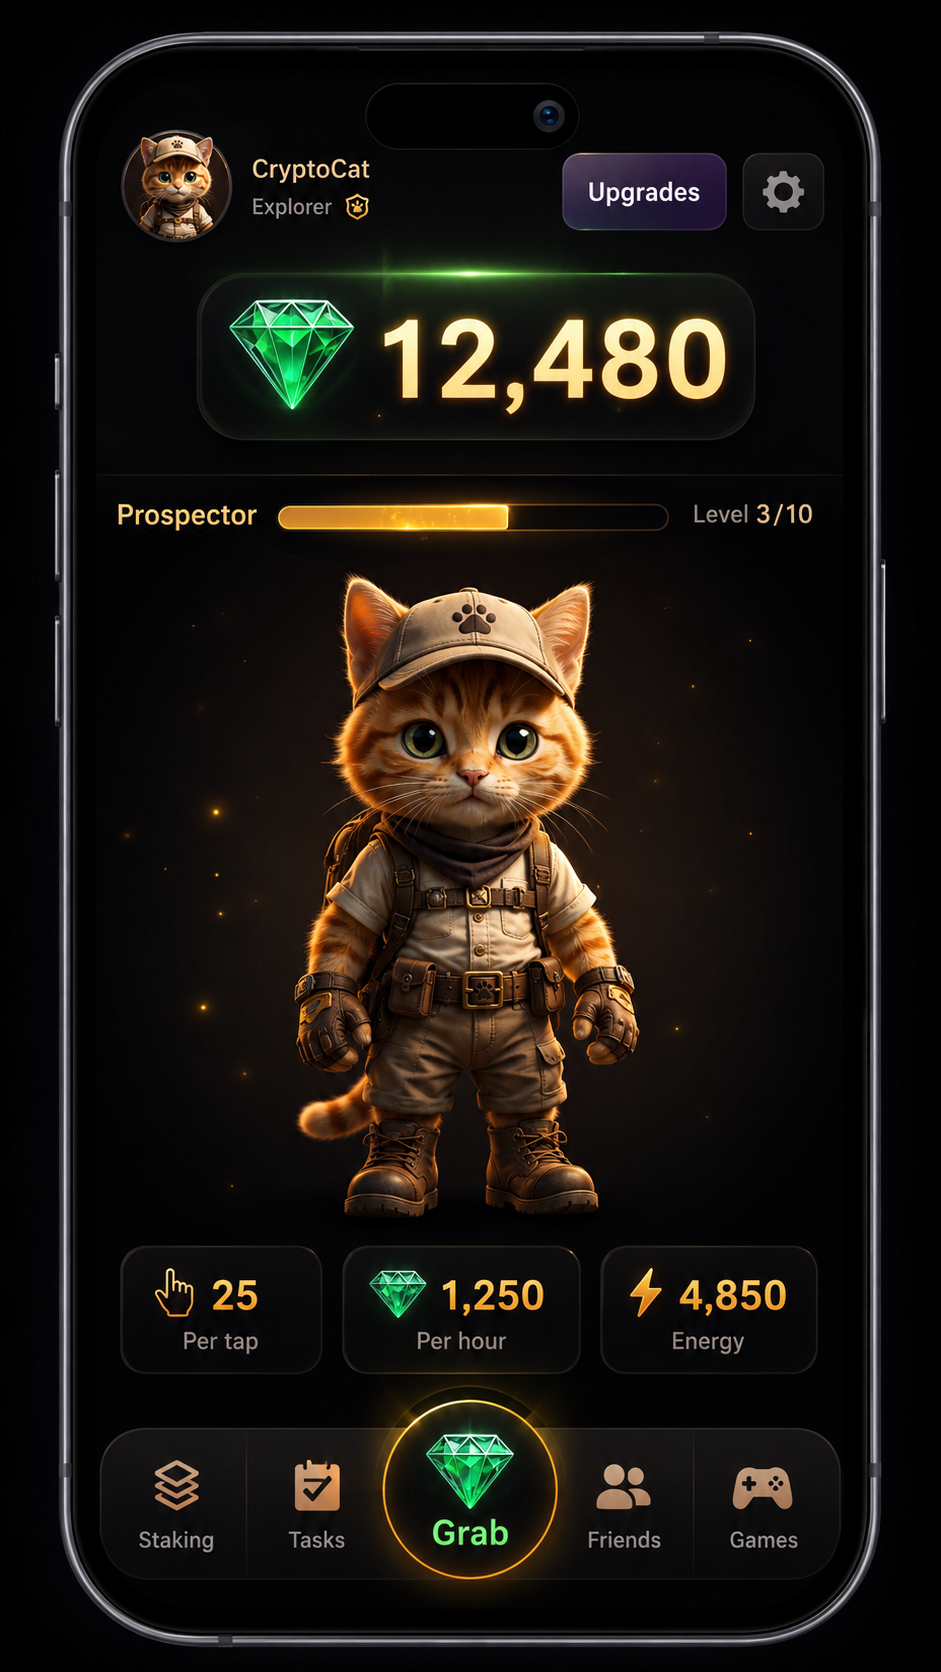
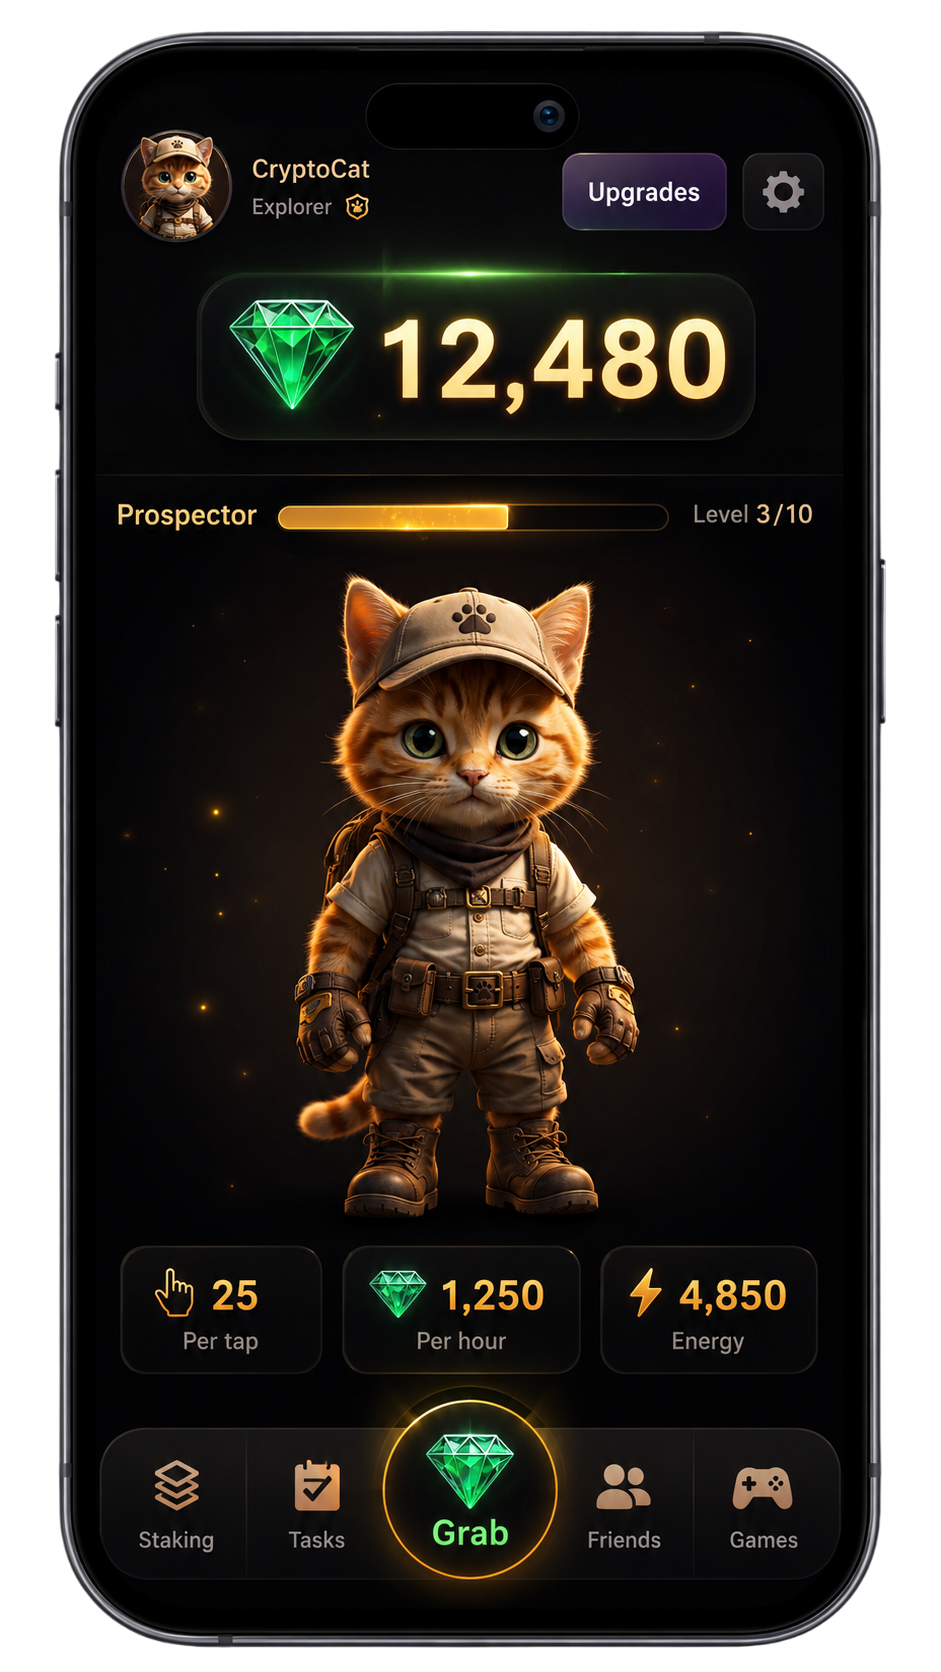
Add transparent phone preview, paw cursor, and download FAB + modal
- Game preview: transparent phone over the cave bg with a warm glow (no panel/box)
- Site-wide paw cursor (pointer:fine only; text caret kept in fields)
- Floating round logo button (pulse + float) opens a Framer Motion modal
  (focus trap, scroll lock, Esc/outside/✕ close) with App Store / Google Play links
- All animations respect prefers-reduced-motion

Changed region(s): [[0.0, 0.0, 1.0, 1.0]]

diff --git a/components/DownloadFab.tsx b/components/DownloadFab.tsx
@@ -1,0 +1,175 @@
+"use client";
+
+import { useEffect, useRef, useState } from "react";
+import Image from "next/image";
+import Link from "next/link";
+import { AnimatePresence, motion, useReducedMotion } from "framer-motion";
+import { IconApple, IconGooglePlay, IconClose } from "@/components/ui/icons";
+import { links } from "@/lib/content";
+import { useLocale } from "@/lib/i18n/LocaleProvider";
+
+export default function DownloadFab() {
+  const { t } = useLocale();
+  const d = t.download;
+  const reduce = useReducedMotion();
+  const [open, setOpen] = useState(false);
+
+  const dialogRef = useRef<HTMLDivElement>(null);
+  const closeRef = useRef<HTMLButtonElement>(null);
+
+  // Esc to close, focus trap, body scroll-lock, restore focus on close.
+  useEffect(() => {
+    if (!open) return;
+    const prevFocus = document.activeElement as HTMLElement | null;
+    const onKey = (e: KeyboardEvent) => {
+      if (e.key === "Escape") {
+        setOpen(false);
+        return;
+      }
+      if (e.key === "Tab" && dialogRef.current) {
+        const focusables = dialogRef.current.querySelectorAll<HTMLElement>(
+          'a[href], button:not([disabled]), [tabindex]:not([tabindex="-1"])',
+        );
+        if (focusables.length === 0) return;
+        const first = focusables[0];
+        const last = focusables[focusables.length - 1];
+        if (e.shiftKey && document.activeElement === first) {
+          e.preventDefault();
+          last.focus();
+        } else if (!e.shiftKey && document.activeElement === last) {
+          e.preventDefault();
+          first.focus();
+        }
+      }
+    };
+    document.addEventListener("keydown", onKey);
+    document.body.style.overflow = "hidden";
+    // focus the close button once mounted
+    const id = window.setTimeout(() => closeRef.current?.focus(), 0);
+    return () => {
+      document.removeEventListener("keydown", onKey);
+      document.body.style.overflow = "";
+      window.clearTimeout(id);
+      prevFocus?.focus();
+    };
+  }, [open]);
+
+  return (
+    <>
+      {/* Floating button */}
+      <div
+        className="fixed z-[60] animate-float-sm"
+        style={{
+          right: "calc(1.25rem + env(safe-area-inset-right))",
+          bottom: "calc(1.25rem + env(safe-area-inset-bottom))",
+        }}
+      >
+        <button
+          type="button"
+          onClick={() => setOpen(true)}
+          aria-label={d.fabLabel}
+          aria-haspopup="dialog"
+          className="group relative grid h-14 w-14 place-items-center rounded-full border border-orange/40 bg-bg2 shadow-[0_0_24px_rgba(242,121,10,0.5)] transition-transform duration-200 hover:scale-110 active:scale-95 md:h-16 md:w-16"
+        >
+          {/* pulsing glow ring */}
+          <span
+            aria-hidden
+            className="absolute inset-0 rounded-full animate-pulse-ring"
+          />
+          <Image
+            src="/assets/logo.png"
+            alt=""
+            aria-hidden
+            width={64}
+            height={64}
+            className="h-[46px] w-[46px] rounded-full md:h-[54px] md:w-[54px]"
+          />
+        </button>
+      </div>
+
+      {/* Modal */}
+      <AnimatePresence>
+        {open && (
+          <motion.div
+            className="fixed inset-0 z-[70] flex items-center justify-center p-4"
+            initial={{ opacity: 0 }}
+            animate={{ opacity: 1 }}
+            exit={{ opacity: 0 }}
+            transition={{ duration: reduce ? 0 : 0.2 }}
+          >
+            {/* backdrop */}
+            <div
+              className="absolute inset-0 bg-black/70 backdrop-blur-sm"
+              onClick={() => setOpen(false)}
+              aria-hidden
+            />
+
+            {/* dialog */}
+            <motion.div
+              ref={dialogRef}
+              role="dialog"
+              aria-modal="true"
+              aria-labelledby="download-heading"
+              className="relative z-10 w-full max-w-[420px] overflow-hidden rounded-[28px] border border-panelb bg-bg2 p-8 text-center shadow-[0_30px_80px_-20px_rgba(0,0,0,0.8)]"
+              initial={reduce ? { opacity: 0 } : { opacity: 0, scale: 0.92, y: 16 }}
+              animate={reduce ? { opacity: 1 } : { opacity: 1, scale: 1, y: 0 }}
+              exit={reduce ? { opacity: 0 } : { opacity: 0, scale: 0.95, y: 12 }}
+              transition={{ duration: reduce ? 0 : 0.24, ease: [0.2, 0.7, 0.2, 1] }}
+            >
+              {/* soft orange glow inside the modal */}
+              <div
+                aria-hidden
+                className="pointer-events-none absolute left-1/2 top-0 h-[260px] w-[260px] -translate-x-1/2 -translate-y-1/3 blur-[14px]"
+                style={{ background: "radial-gradient(circle, rgba(242,121,10,0.28), transparent 65%)" }}
+              />
+
+              <button
+                ref={closeRef}
+                type="button"
+                onClick={() => setOpen(false)}
+                aria-label={d.close}
+                className="absolute right-4 top-4 z-10 grid h-9 w-9 place-items-center rounded-full border border-panelb bg-panel text-muted transition-colors hover:text-text"
+              >
+                <IconClose className="h-[18px] w-[18px]" />
+              </button>
+
+              <div className="relative z-10">
+                <Image
+                  src="/assets/logo.png"
+                  alt="CryptoCat — The Game"
+                  width={96}
+                  height={96}
+                  className="mx-auto h-[88px] w-[88px]"
+                />
+                <h3
+                  id="download-heading"
+                  className="mt-5 font-display text-[28px] font-bold tracking-[-0.01em]"
+                >
+                  {d.heading}
+                </h3>
+                <p className="mx-auto mt-3 max-w-[320px] text-[15px] text-muted">{d.text}</p>
+
+                <div className="mt-7 flex flex-col gap-3">
+                  <Link
+                    href={links.appStore}
+                    className="flex items-center justify-center gap-3 rounded-2xl border border-panelb bg-panel px-5 py-3.5 font-display font-semibold transition-colors hover:border-orange/50 hover:bg-white/[0.06]"
+                  >
+                    <IconApple className="h-6 w-6" />
+                    {d.appStore}
+                  </Link>
+                  <Link
+                    href={links.googlePlay}
+                    className="flex items-center justify-center gap-3 rounded-2xl border border-panelb bg-panel px-5 py-3.5 font-display font-semibold transition-colors hover:border-orange/50 hover:bg-white/[0.06]"
+                  >
+                    <IconGooglePlay className="h-6 w-6 text-green" />
+                    {d.googlePlay}
+                  </Link>
+                </div>
+              </div>
+            </motion.div>
+          </motion.div>
+        )}
+      </AnimatePresence>
+    </>
+  );
+}

diff --git a/components/ui/icons.tsx b/components/ui/icons.tsx
@@ -98,3 +98,32 @@ export function IconSend(props: IconProps) {
     </svg>
   );
 }
+
+export function IconClose(props: IconProps) {
+  return (
+    <svg {...base} {...props}>
+      <path d="M6 6l12 12M18 6 6 18" />
+    </svg>
+  );
+}
+
+/* ---- App store icons (filled) ---- */
+
+export function IconApple(props: IconProps) {
+  return (
+    <svg viewBox="0 0 24 24" fill="currentColor" {...props}>
+      <path d="M17.564 12.78c-.027-2.756 2.25-4.078 2.353-4.143-1.282-1.875-3.278-2.132-3.986-2.16-1.696-.172-3.31 1-4.17 1-.86 0-2.187-.975-3.594-.948-1.85.027-3.557 1.075-4.51 2.732-1.923 3.333-.492 8.27 1.38 10.977.915 1.325 2.006 2.814 3.437 2.76 1.38-.055 1.9-.892 3.568-.892 1.668 0 2.136.892 3.594.865 1.483-.027 2.422-1.351 3.33-2.681 1.048-1.539 1.48-3.026 1.506-3.102-.033-.015-2.89-1.11-2.918-4.405ZM14.79 4.69c.762-.924 1.275-2.206 1.135-3.485-1.098.045-2.428.731-3.215 1.654-.706.818-1.324 2.124-1.158 3.378 1.225.095 2.476-.622 3.238-1.547Z" />
+    </svg>
+  );
+}
+
+export function IconGooglePlay(props: IconProps) {
+  return (
+    <svg viewBox="0 0 24 24" fill="currentColor" {...props}>
+      <path d="M3.6 2.3c-.37.2-.6.6-.6 1.05v17.3c0 .45.23.85.6 1.05l9.65-9.7L3.6 2.3Z" opacity=".9" />
+      <path d="M16.9 8.55 14.2 7 4.6 1.62c-.3-.17-.62-.2-.88-.1l9.53 9.58 3.65-2.55Z" />
+      <path d="m20.4 10.55-2.95-1.65-3.9 2.6 3.9 2.6 2.96-1.65c.85-.48.85-1.42-.01-1.9Z" />
+      <path d="M3.72 22.48c.26.1.58.07.88-.1l9.6-5.38 2.7-1.55-3.65-2.55-9.53 9.58Z" opacity=".9" />
+    </svg>
+  );
+}

diff --git a/app/globals.css b/app/globals.css
@@ -83,6 +83,29 @@
   border-radius: 10px;
 }
 
+/* Custom paw cursor — only on real pointers (not touch/mobile). */
+@media (pointer: fine) {
+  html,
+  body {
+    cursor: url("/assets/paw-cursor.png") 8 4, auto;
+  }
+  a,
+  button,
+  [role="button"],
+  summary,
+  label[for],
+  .btn {
+    cursor: url("/assets/paw-cursor.png") 8 4, pointer;
+  }
+  /* keep the normal text caret in editable fields */
+  input,
+  textarea,
+  select,
+  [contenteditable="true"] {
+    cursor: text;
+  }
+}
+
 /* Reduced-motion: kill all decorative motion */
 @media (prefers-reduced-motion: reduce) {
   *,

diff --git a/tailwind.config.ts b/tailwind.config.ts
@@ -46,12 +46,23 @@ const config: Config = {
         marquee: {
           to: { transform: "translateX(-50%)" },
         },
+        floatSm: {
+          "0%,100%": { transform: "translateY(0)" },
+          "50%": { transform: "translateY(-6px)" },
+        },
+        pulseRing: {
+          "0%": { boxShadow: "0 0 0 0 rgba(242,121,10,0.5)" },
+          "70%": { boxShadow: "0 0 0 14px rgba(242,121,10,0)" },
+          "100%": { boxShadow: "0 0 0 0 rgba(242,121,10,0)" },
+        },
       },
       animation: {
         float: "float 6s ease-in-out infinite",
         bob: "bob 5s ease-in-out infinite",
         "bob-slow": "bob 6s ease-in-out infinite",
         marquee: "marquee 22s linear infinite",
+        "float-sm": "floatSm 4s ease-in-out infinite",
+        "pulse-ring": "pulseRing 2.4s ease-out infinite",
       },
     },
   },

diff --git a/components/GamePreview.tsx b/components/GamePreview.tsx
@@ -67,8 +67,14 @@ export default function GamePreview() {
           </ul>
         </Reveal>
 
-        {/* phone mockup image (frame included) */}
+        {/* transparent phone image — floats over the section bg, no panel/box */}
         <Reveal className="relative flex justify-center">
+          {/* soft warm glow directly behind the phone */}
+          <div
+            aria-hidden
+            className="pointer-events-none absolute left-1/2 top-1/2 h-[460px] w-[460px] -translate-x-1/2 -translate-y-1/2 blur-[12px]"
+            style={{ background: "radial-gradient(circle, rgba(242,121,10,0.30), transparent 64%)" }}
+          />
           <Image
             src="/assets/game-preview.png"
             alt="CryptoCat gameplay on a phone"
@@ -77,7 +83,7 @@ export default function GamePreview() {
             sizes="(max-width: 768px) 280px, 320px"
             loading="lazy"
             className="animate-float relative z-10 h-[560px] w-auto md:h-[620px]"
-            style={{ filter: "drop-shadow(0 40px 60px rgba(0,0,0,.6))" }}
+            style={{ filter: "drop-shadow(0 26px 40px rgba(0,0,0,.45))" }}
           />
         </Reveal>
       </div>

diff --git a/lib/i18n/en.ts b/lib/i18n/en.ts
@@ -91,6 +91,14 @@ const en = {
     title: "Your cat is waiting",
     playNow: "Play Now",
   },
+  download: {
+    fabLabel: "Download the app",
+    heading: "Now on mobile",
+    text: "The popular Telegram game is now available as a mobile app. Download it on your platform:",
+    appStore: "App Store",
+    googlePlay: "Google Play",
+    close: "Close",
+  },
   footer: {
     tagline: "Curiosity pays in coins.",
     columns: {

diff --git a/app/layout.tsx b/app/layout.tsx
@@ -1,6 +1,7 @@
 import type { Metadata } from "next";
 import { Space_Grotesk, Inter, Space_Mono } from "next/font/google";
 import { LocaleProvider } from "@/lib/i18n/LocaleProvider";
+import DownloadFab from "@/components/DownloadFab";
 import "./globals.css";
 
 const spaceGrotesk = Space_Grotesk({
@@ -39,7 +40,10 @@ export default function RootLayout({ children }: { children: React.ReactNode }) 
   return (
     <html lang="en" className={`${spaceGrotesk.variable} ${inter.variable} ${spaceMono.variable}`}>
       <body>
-        <LocaleProvider>{children}</LocaleProvider>
+        <LocaleProvider>
+          {children}
+          <DownloadFab />
+        </LocaleProvider>
       </body>
     </html>
   );

diff --git a/lib/content.ts b/lib/content.ts
@@ -8,7 +8,8 @@
 
 export const links = {
   playNow: "#", // -> Telegram bot URL
-  appStore: "#",
+  appStore: "#", // -> App Store listing
+  googlePlay: "#", // -> Google Play listing
 };
 
 export const navLinks: { id: string; href: string; key: NavKey }[] = [